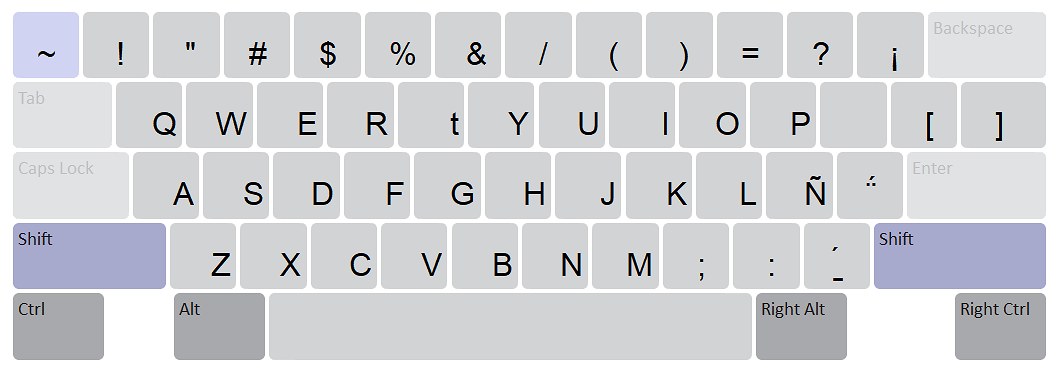
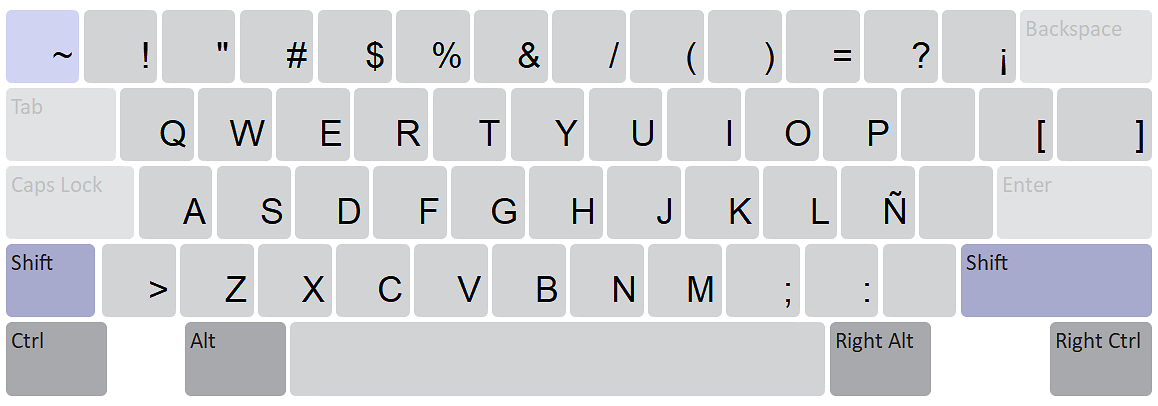
cabecar upload july 4
minor fixes updated, including capitalization errors.  Needs further user testing before all documentation is finalized.

diff --git a/experimental/c/cabecar/source/welcome.htm b/experimental/c/cabecar/source/welcome.htm
@@ -2,7 +2,7 @@
 <html lang="en">
 <head>
   <meta charset="utf-8">
-  <title>Start Using Cabecar</title>
+  <title>Start Using Cabécar</title>
   <style type="text/css">
     p { font: 10pt Tahoma; }
     h1 { font: bold 16pt Tahoma; color: #4444cc; margin-bottom: 2px }
@@ -11,23 +11,23 @@
 </head>
 <body>
 
-<h1>Start Using Cabecar</h1>
+<h1>Empezar a usar Cabécar</h1>
 
 <p>
-    Cabecar 1.0 generated from template.
+    Teclado Cabécar para Costa Rica.
 </p>
 
-<h1>Keyboard Layout</h1>
+<h1>Diseño del Teclado</h1>
 
 <!-- Insert Keyboard Layout Images or HTML here -->
-<p><b>Unshifted</b></p>
+<p><b>Capa base</b></p>
 <img src='cabecar_base_layout.png' alt='Keyboard Layout'>
-<p><b>Shifted</b></p>
+<p><b>Shift</b></p>
 <img src='cabecar_shift_layout.png' alt='Shift Keyboard Layout'>
 <p><b>Alt</b></p>
 <img src='cabecar_alt_layout.png' alt='Alt Keyboard Layout'>
 
-<p>See <a href="cabecar_layout.pdf">this document</a> for all the key combinations.</p>
+<p>Ver <a href="cabecar_layout.pdf">ese documento</a> para todas las combinaciones de teclas.</p>
 <p>© 2020 Victoria Quint</p>
 
 </body>

diff --git a/experimental/c/cabecar/source/readme.htm b/experimental/c/cabecar/source/readme.htm
@@ -11,10 +11,10 @@
 </head>
 <body>
 
-<h1>Cabecar</h1>
+<h1>Cabécar</h1>
 
 <p>
-    Cabecar 1.0 generated from template.
+    Teclado Cabécar para Costa Rica.
 </p>
 
 <p>© 2020 Victoria Quint</p>

diff --git a/experimental/c/cabecar/source/help/cabecar.php b/experimental/c/cabecar/source/help/cabecar.php
@@ -1,23 +1,36 @@
 <?php
-$pagename = 'Cab&eacute;car Keyboard Help';
+$pagename = 'Cabécar Keyboard Help';
 $pagetitle = $pagename;
 // Header
 require_once('header.php');
 ?>
 
 <p>
-Cab&eacute;car keyboard.
+Cabécar keyboard.
 </p>
 
-<h1>Keyboard Layout</h1>
+<h1>Diseño del Teclado</h1>
 
-<h2>Desktop Keyboard Layout</h2>
-<div id='osk' data-states='default shift alt ctrl-alt'>
+<h2>Diseño del Teclado de Escritorio</h2>
+<div id='osk' data-states='default shift shift-ctrl'>
+
+<p>Agregando letras con diacríticos
+
+Para crear vocales con tilde (á, por ejemplo), presione la tecla de la tilde seguida de la vocal deseada. Para una mayúscula tildada (Á, por ejemplo), presione la tecla de la tilde y luego SHIFT + vocal.
+
+Para agregar la diéresis (ä, por ejemplo), presione la tecla “[” seguida de la vocal deseada. Para una mayúscula (Ä, por ejemplo), presione esta misma tecla seguida de SHIFT + vocal.
+
+Para agregar la raya de nasalidad (a̱, por ejemplo), presione la tecla del guion seguida de la vocal deseada. Para una mayúscula (A̱, por ejemplo), presione esta misma tecla seguida de SHIFT + vocal.
+
+Para agregar la combinación de diéresis más tilde (ä́, por ejemplo), presione SHIFT + la tecla “[” seguida de la vocal deseada. De forma similar, para la mayúscula (Ä́, por ejemplo), presione SHIFT + la tecla “[” y luego SHIFT + vocal.
+
+Para agregar la combinación de raya de nasalidad más tilde (á̱, por ejemplo), presione SHIFT + la tecla del guion seguida de la vocal deseada. Para una mayúscula (Á̱, por ejemplo), presione SHIFT + la tecla del guion y luego SHIFT + vocal.
+
+No es necesario mantener presionadas ambas combinaciones de teclas para obtener las marcas diacríticas. Pero si lo desea, puede hacerlo, pues funcionará de todos modos. </p>
 </div>
 
-<h2>Mobile/Tablet Keyboard Layout</h2>
-<p>Due to the size and number of keys, some characters are hidden in the long press.
-Press and hold on the key with a little dot on the top right to reveal them.</p>
+<h2>Diseño de Teclado Móvil</h2>
 
-<div id='osk-phone' data-states='default shift numeric symbol'>
+<p>Todos los diacríticos se accede a través de la pulsación larga en las vocales.  Así que mantén presionada la voz y verás todas las opciones, que luego deslizas y presionas, al igual que en un teclado de teléfono normal.</p>
+<div id='osk-phone' data-states='default shift numeric'>
 </div>

diff --git a/experimental/c/cabecar/README.md b/experimental/c/cabecar/README.md
@@ -1,16 +1,16 @@
-Cabecar Keyboard
+Cabécar Keyboard / Teclado Cabécar
 ==============
 
 © 2020 Victoria Quint
 
-Version 1.0
+Version 1.1
 
 Description
 -----------
 
-Cabecar Keyboard
+Cabécar Keyboard / Teclado Cabécar
 
-Supported Platforms
+Supported Platforms / Plataformas Soportadas
 -------------------
  * Windows
  * macOS

diff --git a/experimental/c/cabecar/HISTORY.md b/experimental/c/cabecar/HISTORY.md
@@ -1,6 +1,10 @@
 Cabecar Change History
 ====================
 
+1.1 (2020-07-01)
+----------------
+* Updated layout errors
+
 1.0 (2020-02-25)
 ----------------
 * Created by Victoria Quint
